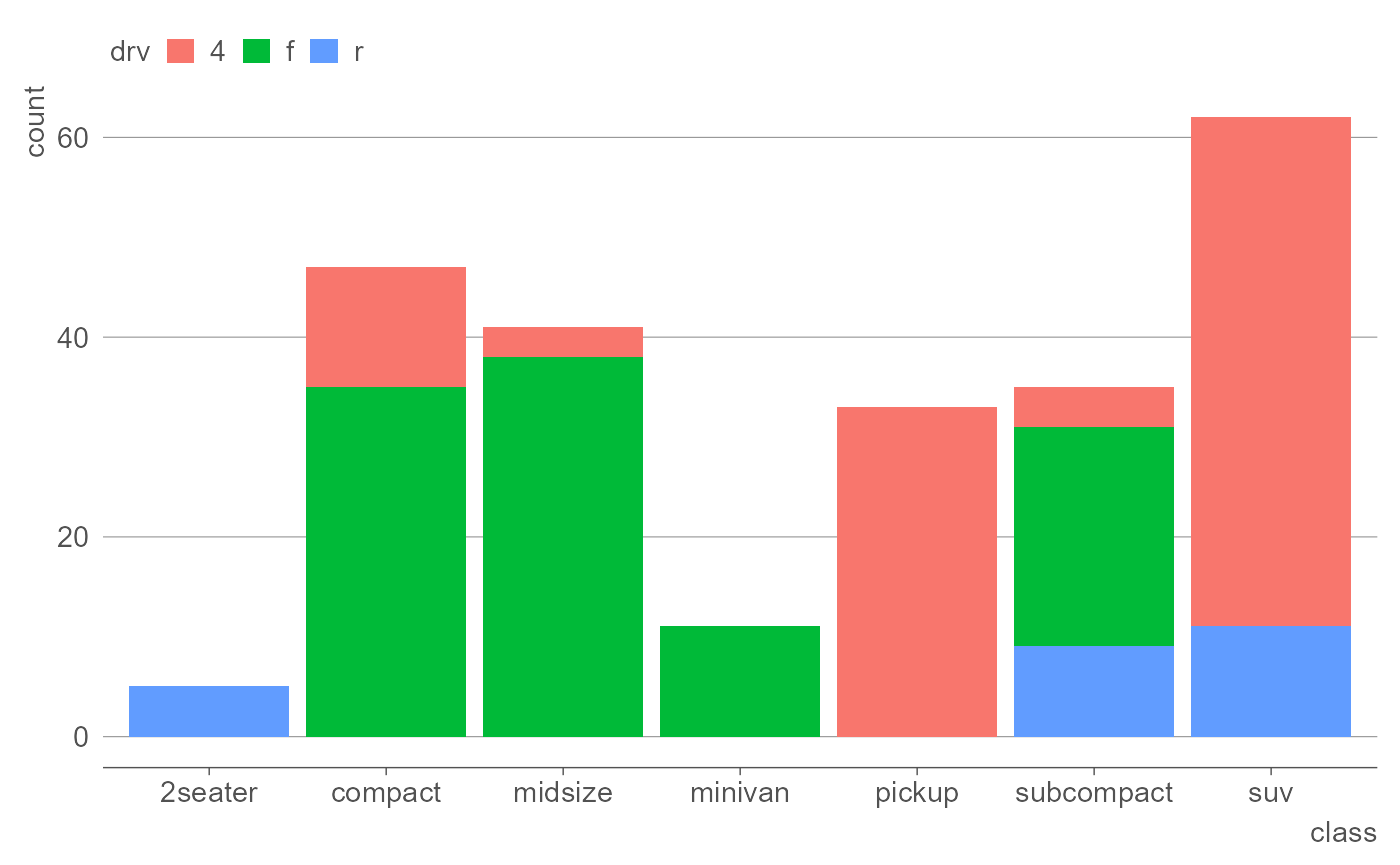
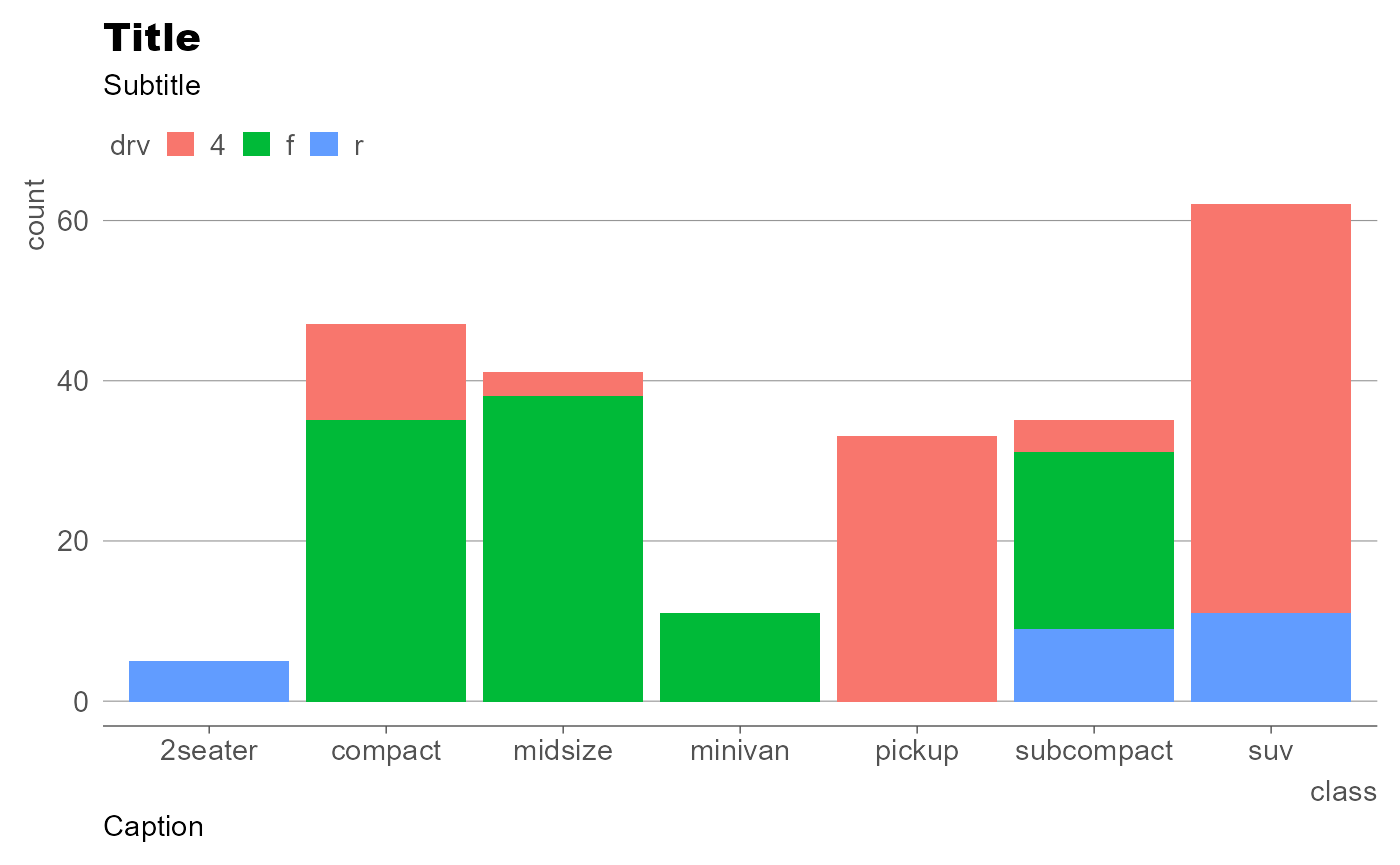
updated website

diff --git a/docs/articles/Visualisierungen.html b/docs/articles/Visualisierungen.html
@@ -125,7 +125,8 @@
              axis.label.pos <span class="op">=</span> <span class="st">"top"</span>,
              axis.lines <span class="op">=</span> <span class="st">"x"</span>,
              ticks <span class="op">=</span> <span class="st">"x"</span>,
-             minor.grid.lines <span class="op">=</span> <span class="cn">FALSE</span><span class="op">)</span></pre></div>
+             minor.grid.lines <span class="op">=</span> <span class="cn">FALSE</span><span class="op">)</span> <span class="op">+</span>
+  <span class="fu"><a href="https://ggplot2.tidyverse.org/reference/labs.html">labs</a></span><span class="op">(</span>title <span class="op">=</span> <span class="st">"Title"</span>, subtitle <span class="op">=</span> <span class="st">"Subtitle"</span>, caption <span class="op">=</span> <span class="st">"Caption"</span><span class="op">)</span></pre></div>
 <p><img src="Visualisierungen_files/figure-html/unnamed-chunk-2-1.png" width="700"></p>
 </div>
 <div id="farbpaletten" class="section level1">
